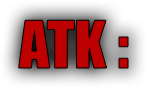
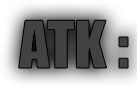
try status effect in fight.py

diff --git a/fight.py b/fight.py
@@ -101,19 +101,19 @@ class Fight:
 
         self.stats_font = pygame.font.Font('assets/fonts/Oswald-Regular.ttf', 60)
 
-        self.lv = self.stats_font.render('Lv :', False, (0, 0, 0)).convert_alpha()
+        self.lv = self.img_load('end_fight_panel/lv').convert_alpha()
         self.lv_rect = pygame.Rect(576, 228, 0, 0)
 
-        self.pv = self.stats_font.render('PV :', False, (0, 0, 0)).convert_alpha()
+        self.pv = self.img_load('end_fight_panel/pv').convert_alpha()
         self.pv_rect = pygame.Rect(576, 339, 0, 0)
 
-        self.atk = self.stats_font.render('ATK :', False, (0, 0, 0)).convert_alpha()
+        self.atk = self.img_load('end_fight_panel/atk').convert_alpha()
         self.atk_rect = pygame.Rect(576, 406, 0, 0)
 
-        self.defense = self.stats_font.render('DEF :', False, (0, 0, 0)).convert_alpha()
+        self.defense = self.img_load('end_fight_panel/def').convert_alpha()
         self.defense_rect = pygame.Rect(576, 476, 0, 0)
 
-        self.vit = self.stats_font.render('VIT :', False, (0, 0, 0)).convert_alpha()
+        self.vit = self.img_load('end_fight_panel/vit').convert_alpha()
         self.vit_rect = pygame.Rect(576, 546, 0, 0)
 
         self.pk_icon = pygame.transform.scale(self.player_pk.icon_image, (960, 480)).convert_alpha()
@@ -141,6 +141,12 @@ class Fight:
             pygame.Rect(535, 596, 356, 109)
         ]
         self.current_action_rect = pygame.Rect(477, 356, 803, 365)
+
+        # Variables relatives aux status
+        self.sommeil_compteur_tour = {self.player_pk: -1,
+                                      self.dresseur.pk: -1}
+        self.confusion_compteur_tour = {self.player_pk: -1,
+                                        self.dresseur.pk: -1}
 
         # Variables relatives aux actions du tour
         self.current_turn_action = ('NoAction', None)  # ('ITEM', item) ou ('ATTAQUE', attaque)
@@ -180,6 +186,13 @@ class Fight:
 
                         f(param1, param2, param3)
                     self.compteur_action_file.pop(0)
+                    self.compteur -= 1
+                elif self.compteur == 1:
+                    if self.fight_result is None:
+                        self.apply_status_effect(self.player_pk)
+                    if self.fight_result is None:
+                        self.apply_status_effect(self.dresseur.pk)
+
                     self.compteur -= 1
                 else:
                     self.compteur -= 1
@@ -233,7 +246,6 @@ class Fight:
         surface.blit(self.pk_icon, (42, 124), (0, 0, 480, 480))
 
         self.compteur_end_fight += 1
-
 
     def update_current_action(self, possouris):
         if self.current_action is not None:
@@ -534,9 +546,13 @@ class Fight:
                     self.boolEnding = True
 
     def turn(self, player_pk_action, dresseur_pk_action):
+
+        self.update_status_effect(self.player_pk)
+        self.update_status_effect(self.dresseur.pk)
+
         pk1, pk2 = self.get_action_order(player_pk_action, dresseur_pk_action)
         if pk1[1][0] == 'ITEM' and pk1[0].is_alive:
-            self.compteur_action_file.append((self.apply_item_action, pk[0], pk[1][1], pk[1][2]))
+            self.compteur_action_file.append((self.apply_item_action, pk1[0], pk1[1][1], pk1[1][2]))
 
         if pk2[1][0] == 'ITEM' and pk2[0].is_alive:
             self.compteur_action_file.append((self.apply_item_action, pk2[0], pk2[1][1], pk2[1][2]))
@@ -573,7 +589,23 @@ class Fight:
             self.add_logs((self.player_pk, 'Victory'))
 
     def apply_attaque_action(self, pk, ennemy_pk, attaque):
-        pk.attaque(ennemy_pk, attaque)
+
+        pk_can_atk = True
+
+        if pk.status['Sommeil']:
+            pk_can_atk = False
+        if pk.status['Gel']:
+            pk_can_atk = False
+        if pk.status['Paralysie']:
+            if random.randint(1, 4) == 1:
+                pk_can_atk = False
+        if pk.status['Confusion']:
+            if random.randint(1, 3) == 1:
+                pk_can_atk = False
+                pk.attaque(pk, attaque.Attaque('Charge'))
+
+        if pk_can_atk:
+            pk.attaque(ennemy_pk, attaque)
 
         self.add_logs((pk, attaque))
 

diff --git a/pokemon.py b/pokemon.py
@@ -38,15 +38,18 @@ class Pokemon:
 
         self.bonus_attack = 0
         self.multiplicateur_attack = 1
-        self.attack = round((2 * int(self.line[4]) * self.level)/100 + 5) + self.bonus_attack
+        self.base_attack = round((2 * int(self.line[4]) * self.level)/100 + 5) + self.bonus_attack
+        self.attack = self.base_attack
 
         self.bonus_defense = 0
         self.multiplicateur_defense = 1
-        self.defense = round((2 * int(self.line[5]) * self.level)/100 + 5) + self.bonus_defense
+        self.base_defense = round((2 * int(self.line[5]) * self.level)/100 + 5) + self.bonus_defense
+        self.defense = self.base_defense
 
         self.bonus_speed = 0
         self.multiplicateur_speed = 1
-        self.speed = round((2 * int(self.line[6]) * self.level)/100 + 5) + self.bonus_speed
+        self.base_speed = round((2 * int(self.line[6]) * self.level)/100 + 5) + self.bonus_speed
+        self.speed = self.base_speed
 
         self.evolution_level = int(self.line[7])
         self.evolution_name = str(self.line[8])
@@ -84,9 +87,9 @@ class Pokemon:
         diff = self.pv - self.health
         self.pv = round((round((2*int(self.line[3])*self.level)/100 + self.level + 10) + self.bonus_pvmax) * self.multiplicateur_pvmax)
         self.health = self.pv - diff
-        self.attack = round((round((2 * int(self.line[4]) * self.level)/100 + 5) + self.bonus_attack) * self.multiplicateur_attack)
-        self.defense = round((round((2 * int(self.line[5]) * self.level)/100 + 5) + self.bonus_defense) * self.multiplicateur_defense)
-        self.speed = round((round((2 * int(self.line[6]) * self.level)/100 + 5) + self.bonus_speed) * self.multiplicateur_speed)
+        self.base_attack = round((round((2 * int(self.line[4]) * self.level)/100 + 5) + self.bonus_attack) * self.multiplicateur_attack)
+        self.base_defense = round((round((2 * int(self.line[5]) * self.level)/100 + 5) + self.bonus_defense) * self.multiplicateur_defense)
+        self.base_speed = round((round((2 * int(self.line[6]) * self.level)/100 + 5) + self.bonus_speed) * self.multiplicateur_speed)
 
     def evolution(self):
         if self.evolution_name == '0':

diff --git a/player.py b/player.py
@@ -1,3 +1,4 @@
+import objet
 import player_name
 import pokemon
 from objet import Objet
@@ -22,8 +23,8 @@ class Player:
                      None,
                      None,
                      None]
-        self.sac_page1 = [None,
-                          None,
+        self.sac_page1 = [objet.Objet('Super_Bonbon', 100),
+                          objet.Objet('Potion_Max', 100),
                           None,
                           None,
                           None,

diff --git a/bot_fight_algo.py b/bot_fight_algo.py
@@ -55,6 +55,8 @@ def get_npc_action(pk, ennemy_pk, att:list):
                 #scoretemp = scoretemp * (1 + (SPEED_HEAL/400) * float(taux_heal_on_atk))
                 scoretemp = scoretemp * (1 + (SPEED_HEAL/400) * float(taux_heal_on_atk) * (-2*(pk.health/pk.pv)+2))
 
+            print(attaque.name, scoretemp)
+
             score.append(scoretemp)
 
         max = score[0]

diff --git a/main.py b/main.py
@@ -38,7 +38,7 @@ while running:
 
             # Touche de test admin
             if event.key == pygame.K_a:
-                game.current_fight.player_pk.damage(5)
+                game.current_fight.player_pk.level_up(200)
             elif event.key == pygame.K_z:
                 game.player.sac_page1[0] = objet.Objet(input())
             elif event.key == pygame.K_o:
